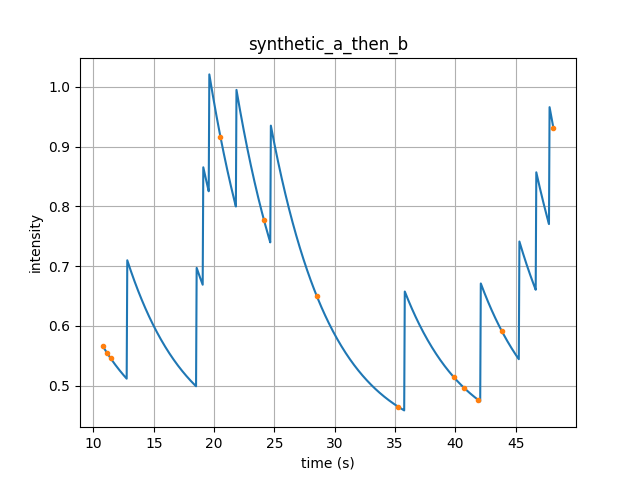
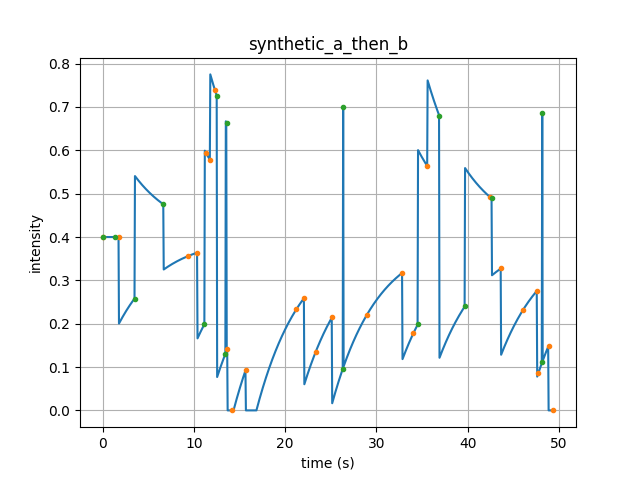
add new rules, test not passed

diff --git a/logic/a_then_c_or_b_then_c_logic.py b/logic/a_then_c_or_b_then_c_logic.py
@@ -1,14 +1,14 @@
 from typing import List,Tuple,Dict,Any
 import numpy as np
 
-class A_Then_B_logic:
+class A_Then_C_or_B_Then_C_logic:
     """
-    Another instance of Hawkes logic, only change A from copied predicate to independent predicate
+    2 Rules: A->C OR B->C, where C is target, A,B are indep preds.
     Annotations are same to ./logic/hawkes_logic.py, thus here we omit them.
     """
     def __init__(self):
-        self.num_predicate = 2 # num_predicate is same as num_node
-        self.num_formula = 1
+        self.num_predicate = 3 # num_predicate is same as num_node
+        self.num_formula = 2
         self.BEFORE = 100
         self.EQUAL = 1000
         
@@ -18,7 +18,8 @@ class A_Then_B_logic:
     def __get_R_matrix(self) -> np.ndarray:
         #relation matrix
         R_matrix = np.zeros((self.num_predicate, self.num_formula), dtype=int)
-        predicate_indices = [[0,1],]
+        predicate_indices = [[0,2],[1,2]]
+        # predicate_indices[i] corresponds to formula[i]
         for idx, predicates in enumerate(predicate_indices):
             R_matrix[predicates,idx] = 1
         return R_matrix
@@ -26,35 +27,38 @@ class A_Then_B_logic:
     def __get_logic_formulas(self) -> Tuple[List]:
 
         #### Begin logic_formula  ####
-        # f0(A,B): If A, then B
+        # f0(A,C): If A, then C : Not A OR C
         logic_f0 = np.array([0,1])
+        # f1(A,C): If B, then C : Not B OR C
+        logic_f1 = np.array([0,1])
+
         
         #### Begin time_template  ####
-        # f0(A,B):  A -> B  and A before B
+        # f0(A,C):  A -> C  and A before C
         time_template_f0 = np.zeros((2,),dtype=int)
         time_template_f0[1] = self.BEFORE
+        # f1(B,C):  B -> C  and B before C
+        time_template_f1 = np.zeros((2,),dtype=int)
+        time_template_f1[1] = self.BEFORE
 
         #### Begin predicate mapping
         predicate_mapping = {}
 
         #### Begin independent predicate
-        # independent predicates denote outer factors, e.g. human\whether\earthquake...
-        # these predicates can trigger others, but can not be triggered by others.
-        # we thus do not care about their intensity, and synthetic them randomly.
-        independent_predicate = [0]
+        independent_predicate = [0,1]
 
         #### Begin is_duration_pred
         # is_duration_pred[i] = True means pred i may keeps state in some duration.
         # otherwise, pred i keep a certain state in all time, and only switch to the other state in infinite-small time.
-        is_duration_pred = [0,1]
+        is_duration_pred = [0,0,1]
 
         formula_ind_to_rule_ind = [0] * self.num_formula
 
         for i in range(len(formula_ind_to_rule_ind)):
             formula_ind_to_rule_ind[i] = i
         
-        logic_rule_list = [logic_f0,]
-        time_template_list = [time_template_f0,]
+        logic_rule_list = [logic_f0,logic_f1]
+        time_template_list = [time_template_f0,time_template_f1]
 
         return logic_rule_list, time_template_list, formula_ind_to_rule_ind, predicate_mapping, independent_predicate, is_duration_pred
 

diff --git a/logic/a_and_b_then_c_logic.py b/logic/a_and_b_then_c_logic.py
@@ -1,13 +1,13 @@
 from typing import List,Tuple,Dict,Any
 import numpy as np
 
-class A_Then_B_logic:
+class A_And_B_Then_C_logic:
     """
-    Another instance of Hawkes logic, only change A from copied predicate to independent predicate
+    1 Rule: A and B -> C, where C is target, A,B are indep preds.
     Annotations are same to ./logic/hawkes_logic.py, thus here we omit them.
     """
     def __init__(self):
-        self.num_predicate = 2 # num_predicate is same as num_node
+        self.num_predicate = 3 # num_predicate is same as num_node
         self.num_formula = 1
         self.BEFORE = 100
         self.EQUAL = 1000
@@ -18,44 +18,43 @@ class A_Then_B_logic:
     def __get_R_matrix(self) -> np.ndarray:
         #relation matrix
         R_matrix = np.zeros((self.num_predicate, self.num_formula), dtype=int)
-        predicate_indices = [[0,1],]
+        predicate_indices = [[0,1,2]]
+        # predicate_indices[i] corresponds to formula[i]
         for idx, predicates in enumerate(predicate_indices):
             R_matrix[predicates,idx] = 1
         return R_matrix
 
     def __get_logic_formulas(self) -> Tuple[List]:
-
+        logic_rule_list = list()
+        time_template_list = list()
         #### Begin logic_formula  ####
-        # f0(A,B): If A, then B
-        logic_f0 = np.array([0,1])
-        
+        # f0(A,B,C): If A and B, then C : Not A OR Not B OR C
+        logic_f0 = np.array([0,0,1])
+        logic_rule_list.append(logic_f0)
+      
         #### Begin time_template  ####
-        # f0(A,B):  A -> B  and A before B
-        time_template_f0 = np.zeros((2,),dtype=int)
+        # f0(A,B,C):  A and B -> C  and A before B and A before C. 
+        time_template_f0 = np.zeros((3,),dtype=int)
         time_template_f0[1] = self.BEFORE
+        time_template_f0[2] = self.BEFORE
+        time_template_list.append(time_template_f0)
 
         #### Begin predicate mapping
         predicate_mapping = {}
 
         #### Begin independent predicate
-        # independent predicates denote outer factors, e.g. human\whether\earthquake...
-        # these predicates can trigger others, but can not be triggered by others.
-        # we thus do not care about their intensity, and synthetic them randomly.
-        independent_predicate = [0]
+        independent_predicate = [0,1]
 
         #### Begin is_duration_pred
         # is_duration_pred[i] = True means pred i may keeps state in some duration.
         # otherwise, pred i keep a certain state in all time, and only switch to the other state in infinite-small time.
-        is_duration_pred = [0,1]
+        is_duration_pred = [0,0,0]
 
         formula_ind_to_rule_ind = [0] * self.num_formula
 
         for i in range(len(formula_ind_to_rule_ind)):
             formula_ind_to_rule_ind[i] = i
         
-        logic_rule_list = [logic_f0,]
-        time_template_list = [time_template_f0,]
-
         return logic_rule_list, time_template_list, formula_ind_to_rule_ind, predicate_mapping, independent_predicate, is_duration_pred
 
 if __name__ == "__main__":

diff --git a/dataloader/synthetic.py b/dataloader/synthetic.py
@@ -164,27 +164,37 @@ class Synthetic:
     
     def draw_dataset(self):
         dataset = self.get_dataset(is_train=1)
-        #print(dataset)
-        print(dataset[0])
-        data = dataset[0][1]
-        mask = np.array(data['state'])==1
-        time_array = np.array(data["time"])[mask]
         def f(t):
-            return self.model.intensity(t = t, dataset = dataset, sample_ID = 0, target_predicate = 1) 
+            return self.model.intensity(t = t, dataset = dataset, sample_ID = 0, target_predicate = self.args.target_predicate[0]) 
         name = "synthetic_" + self.args.synthetic_logic_name 
-
-        draw_event_intensity(time_array, name, f)
+        f_list = [f]
+        if self.args.synthetic_logic_name in ["hawkes","self_correcting"]:
+            data = dataset[0][1]
+            mask = np.array(data['state'])==1
+            time_array = np.array(data["time"])[mask]
+            time_array_list = [time_array]
+        elif self.args.synthetic_logic_name in ["a_then_b","a_then_c_or_b_then_c", "a_and_b_then_c"]:
+            time_array_list = list()
+            for i in range(self.num_predicate):
+                time_array_list.append(np.array(dataset[0][i]["time"]))
+        else:
+            raise ValueError
+        draw_event_intensity(time_array_list, name, f_list)
 
 
 
 
 if __name__ == "__main__":
     from utils.args import get_args
-    
     args = get_args()
     args.dataset_name = "synthetic"
-    args.target_predicate = [1]
-    args.synthetic_logic_name = "a_then_b"#"hawkes"#"self_correcting"
+    args.synthetic_logic_name = "a_and_b_then_c" #"a_then_c_or_b_then_c"#"a_then_b"#"hawkes"#"self_correcting"
+
+    if args.synthetic_logic_name in ["a_then_c_or_b_then_c", "a_and_b_then_c"]:
+        args.target_predicate = [2]
+    else:
+        args.target_predicate = [1]
+    
     args.synthetic_training_sample_num = 1
     args.synthetic_testing_sample_num = 0
     args.synthetic_time_horizon = 50
@@ -194,10 +204,3 @@ if __name__ == "__main__":
     s.draw_dataset()
     train_data_set = s.generate_data(sample_ID_lb=0, sample_ID_ub=1, seed=1)
     #print(train_data_set)
-    
-    #print(test_data_set)
-    #event_cnt = 0
-    #for ID,info in test_data_set.items():
-    #    event_cnt += len(info[1]['time']) / 2  # divided by 2, since each event has 2 states (times).
-    #avg_event_cnt = event_cnt / len(test_data_set.keys())
-    #print(avg_event_cnt)

diff --git a/utils/data_vis.py b/utils/data_vis.py
@@ -1,20 +1,28 @@
 import numpy as np
 import matplotlib.pyplot as plt
 
-def draw_event_intensity(t_array, name, *f):
+def draw_event_intensity(t_arrays, name, f):
     """
-    t_array: x
-    f: t \mapsto y
+    t_arrays: list of x
+    f: list of functions : t \mapsto y
     name: figure name
     """
-    t_range = np.arange(t_array[0], t_array[-1], 0.05)
-    f_array = np.array([f[0](t_) for t_ in t_array])
+    t_min = 1e8
+    t_max = 0
+    for t_a in t_arrays:
+        t_min = min(t_min, t_a[0])
+        t_max = max(t_max, t_a[-1])
+    t_range = np.arange(t_min, t_max, 0.05)
+
     fig, ax = plt.subplots()
-    for f_ in f:
+    for f_ in f:# draw intensity
         f_range = np.array([f_(t_) for t_ in t_range])
         ax.plot(t_range, f_range)
 
-    ax.plot(t_array, f_array, '.')
+    for t_a in t_arrays: # draw points
+        f_array = np.array([f[0](t_) for t_ in t_a])
+        ax.plot(t_a, f_array, '.')
+
     ax.set(xlabel='time (s)', ylabel='intensity',title=name)
     ax.grid()
     fig.savefig(name+".png")

diff --git a/logic/__init__.py b/logic/__init__.py
@@ -9,6 +9,8 @@ import numpy as np
 from logic.hawkes_logic import Hawkes_logic
 from logic.self_correcting_logic import Self_Correcting_logic
 from logic.a_then_b_logic import A_Then_B_logic
+from logic.a_then_c_or_b_then_c_logic import A_Then_C_or_B_Then_C_logic
+from logic.a_and_b_then_c_logic import A_And_B_Then_C_logic
 
 class Logic:
     """Provide expert defiend logic rule calculations.
@@ -36,6 +38,10 @@ class Logic:
                 self.logic = Self_Correcting_logic()
             elif args.synthetic_logic_name == "a_then_b":
                 self.logic = A_Then_B_logic()
+            elif args.synthetic_logic_name == "a_then_c_or_b_then_c":
+                self.logic = A_Then_C_or_B_Then_C_logic()
+            elif args.synthetic_logic_name == "a_and_b_then_c":
+                self.logic = A_And_B_Then_C_logic()
             else:
                 raise ValueError
         else:

diff --git a/model/point_process.py b/model/point_process.py
@@ -291,7 +291,7 @@ class Point_Process:
                     te = time_list[i+1]
                     state = state_list[i]
                     fe_sign = formula_effect[state]
-                    fe_integral_term = (exp(D*(ta - ts)) - exp(D*(ta - te)))/D
+                    fe_integral_term = (np.exp(D*(ta - ts)) - np.exp(D*(ta - te)))/D
                     fe_integral += fe_integral_term * count * fe_sign 
         return fe_integral
                 
